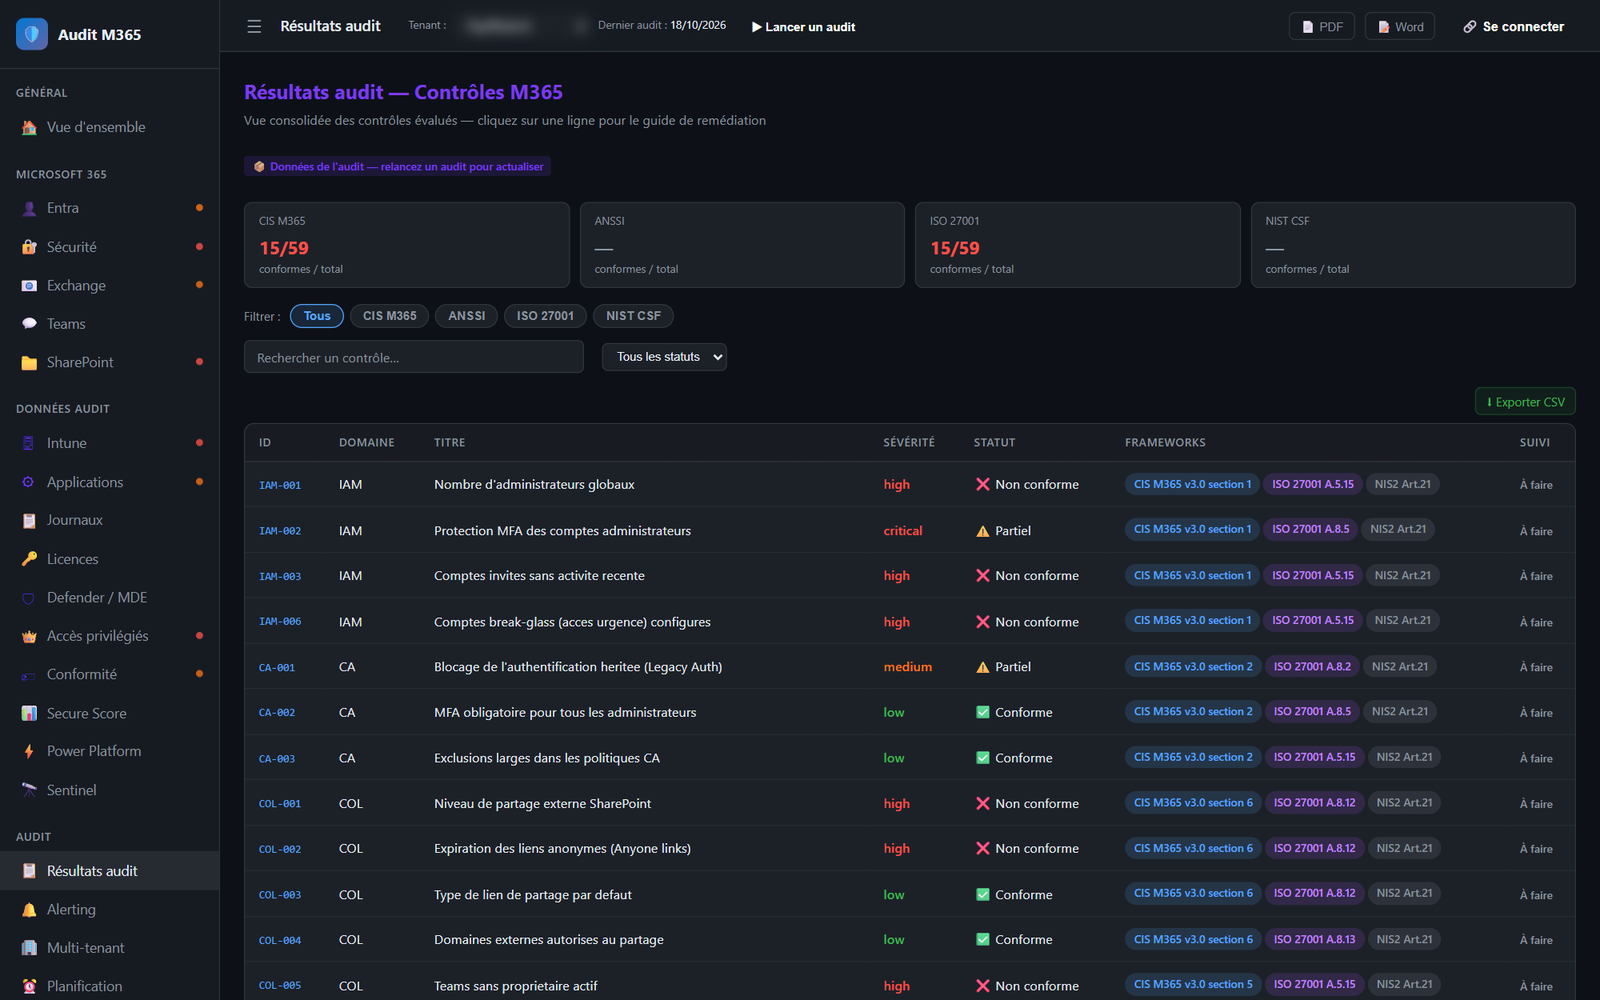
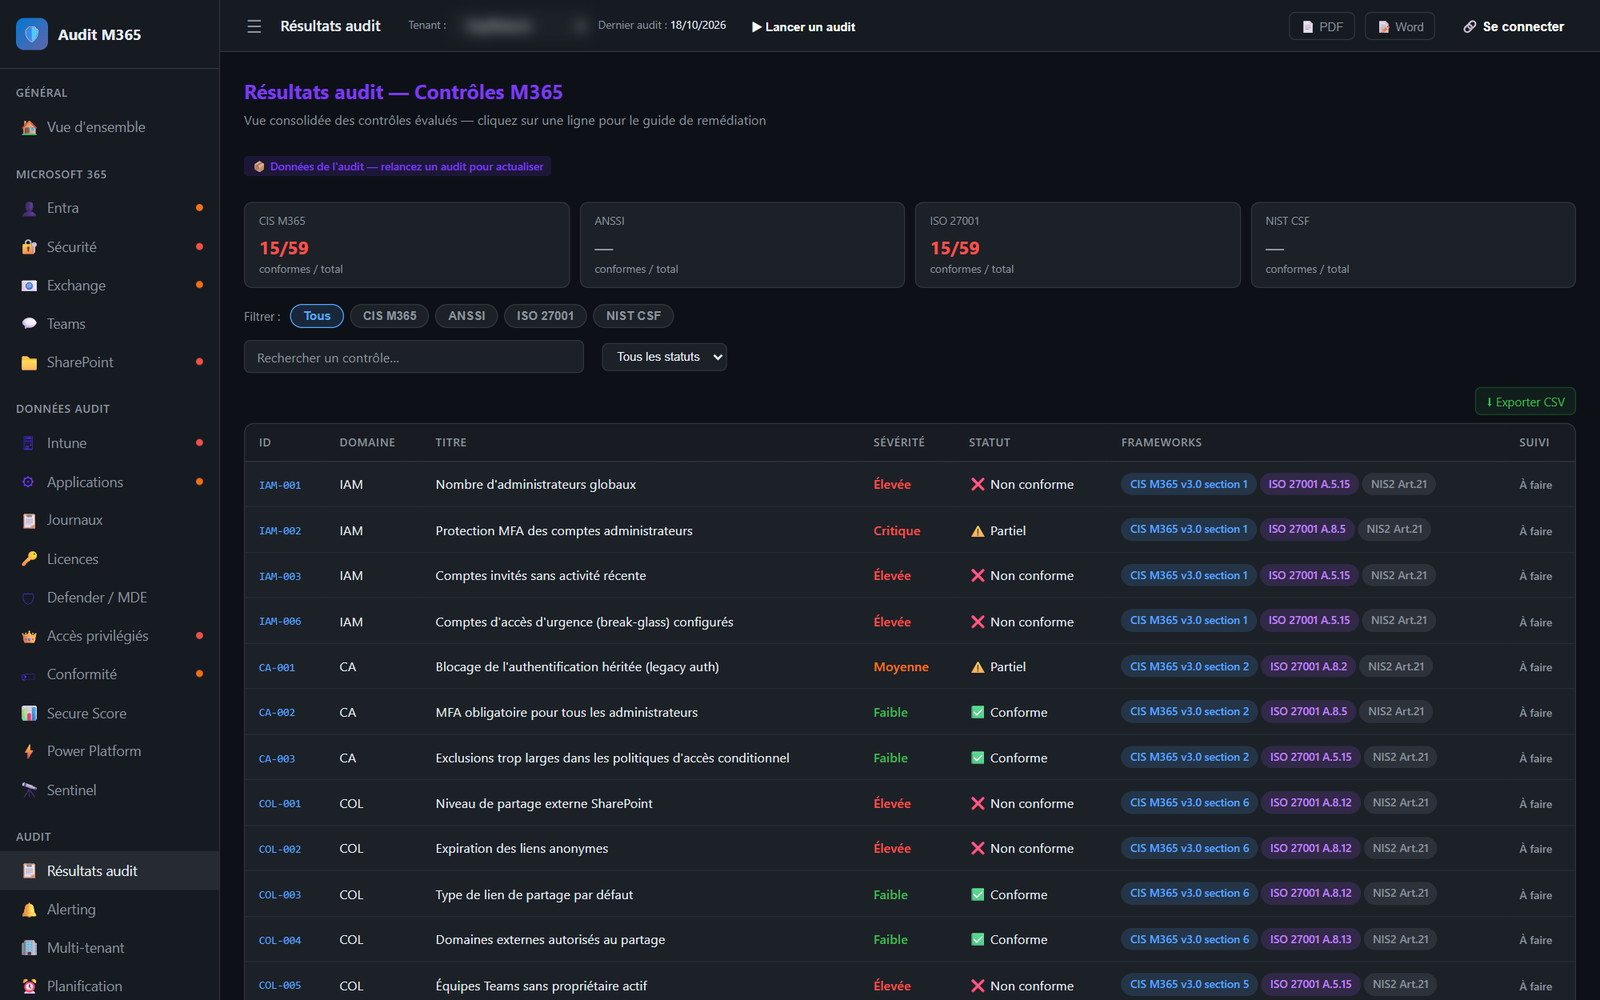
v1.2.14 : badge, nouveautés, capture des résultats d'audit

diff --git a/nouveautes.html b/nouveautes.html
@@ -233,13 +233,30 @@
   <div class="content-wrap">
     <div class="changelog">
 
+      <!-- v1.2.14 -->
+      <div class="cl-item">
+        <div class="cl-dot">🇫🇷</div>
+        <div class="cl-body">
+          <div class="cl-header">
+            <span class="cl-version">v1.2.14</span>
+            <span class="cl-tag latest">Dernière version</span>
+            <span class="cl-date">18 octobre 2026</span>
+          </div>
+          <div class="cl-title">Résultats d’audit entièrement en français</div>
+          <div class="cl-desc">Les 78 contrôles portent des titres en français correct, et la sévérité comme le statut s’affichent en français dans le tableau de bord, y compris pour les audits déjà réalisés.</div>
+          <div class="cl-items">
+            <div class="cl-li"><div class="cl-li-dot fix"></div>Titres des contrôles accentués et reformulés</div>
+            <div class="cl-li"><div class="cl-li-dot fix"></div>Sévérité : Critique, Élevée, Moyenne, Faible ; statut « Indéterminé » affiché en clair</div>
+          </div>
+        </div>
+      </div>
+
       <!-- v1.2.13 -->
       <div class="cl-item">
         <div class="cl-dot">✨</div>
         <div class="cl-body">
           <div class="cl-header">
             <span class="cl-version">v1.2.13</span>
-            <span class="cl-tag latest">Dernière version</span>
             <span class="cl-date">18 octobre 2026</span>
           </div>
           <div class="cl-title">Deux nouveaux contrôles d’identité : 78 contrôles évalués</div>

diff --git a/index.html b/index.html
@@ -589,7 +589,7 @@
       <div class="dl-info">
         <div class="dl-title">⬇ Télécharger AuditM365</div>
         <div class="dl-meta">
-          <span class="dl-badge dl-badge-green">✓ Dernière version — v1.2.13</span>
+          <span class="dl-badge dl-badge-green">✓ Dernière version — v1.2.14</span>
           <span class="dl-badge">🪟 Windows 10 / 11</span>
           <span class="dl-badge">📦 38,4 Mo</span>
           <span class="dl-badge">🔄 Mises à jour automatiques</span>
@@ -603,7 +603,7 @@
       </div>
       <a href="https://github.com/LSOTA/AuditM365-Site/releases/latest/download/AuditM365-Setup.exe" class="dl-btn">
         <span class="dl-btn-icon">⬇</span>
-        <span>Télécharger l'installateur<br><small style="font-weight:400;font-size:12px;opacity:.8">v1.2.13 — 38,4 Mo</small></span>
+        <span>Télécharger l'installateur<br><small style="font-weight:400;font-size:12px;opacity:.8">v1.2.14 — 38,4 Mo</small></span>
       </a>
     </div>
   </div>
